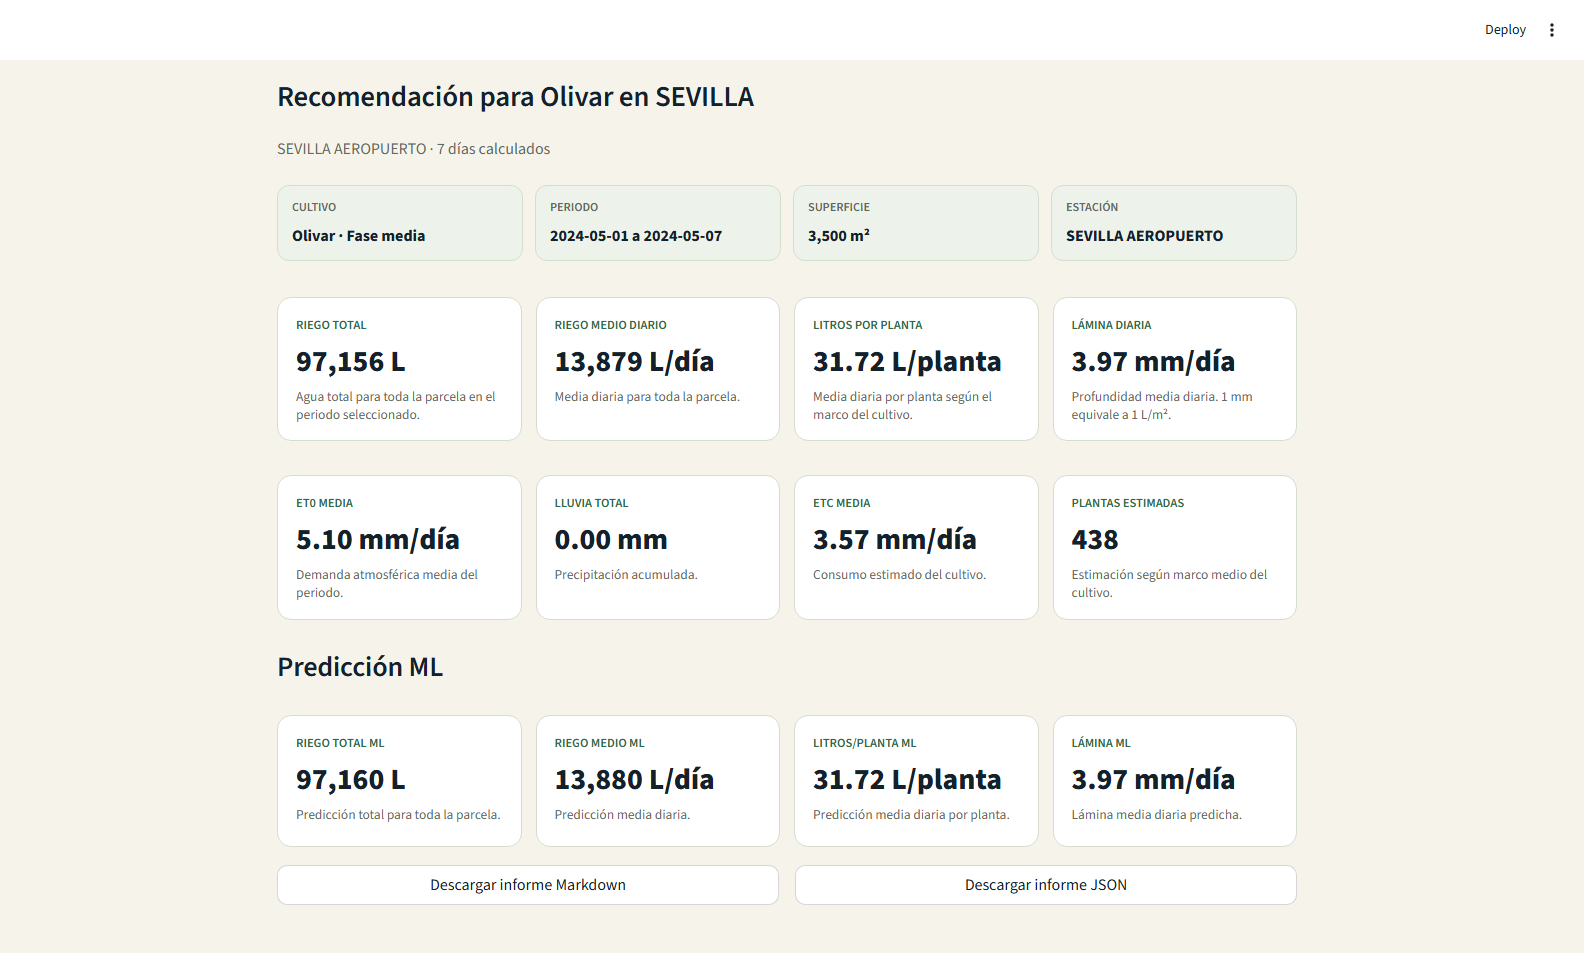
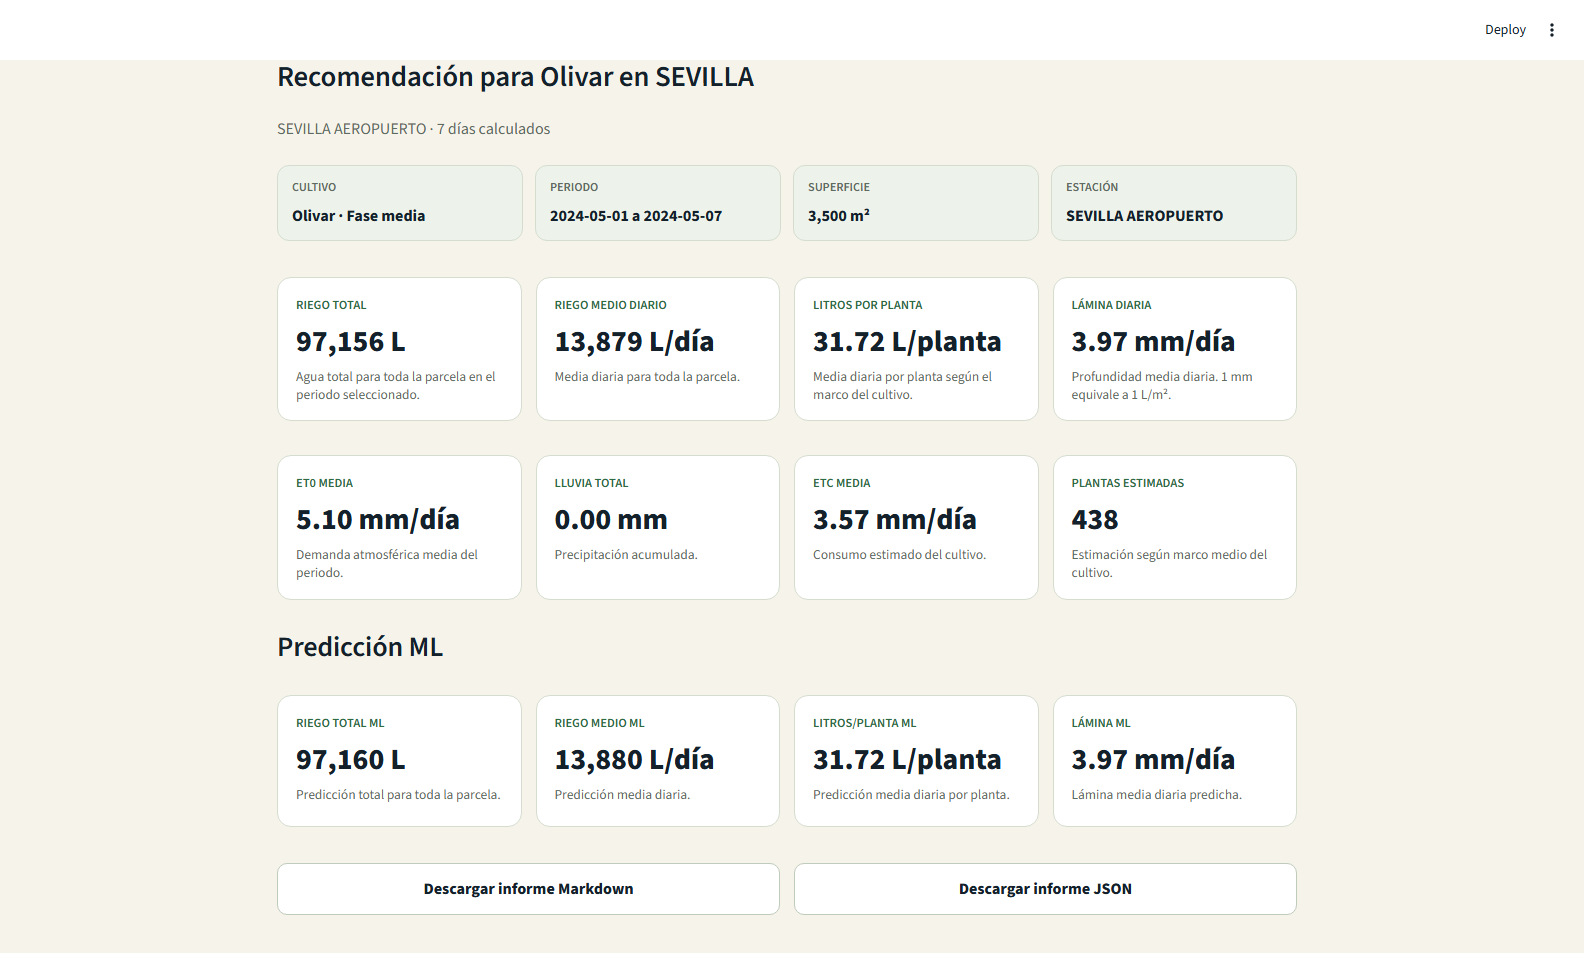
Documentar indicadores y corregir informes descargables

diff --git a/app.py b/app.py
@@ -1,5 +1,6 @@
 from __future__ import annotations
 
+import base64
 import json
 from datetime import date
 from html import escape
@@ -36,6 +37,36 @@ CROP_LABELS = {
     "citricos": "Cítricos",
     "olivar": "Olivar",
 }
+REPORT_INDICATOR_DEFINITIONS = [
+    {
+        "indicador": "Riego total",
+        "significado": "Agua total recomendada para toda la parcela en el periodo seleccionado.",
+    },
+    {
+        "indicador": "Riego medio diario",
+        "significado": "Promedio diario de agua para toda la parcela.",
+    },
+    {
+        "indicador": "Litros por planta",
+        "significado": "Media diaria estimada para cada planta según el marco del cultivo.",
+    },
+    {
+        "indicador": "Lámina diaria",
+        "significado": "Profundidad media diaria de riego; 1 mm equivale a 1 L/m².",
+    },
+    {
+        "indicador": "ET0 media",
+        "significado": "Demanda atmosférica media del periodo.",
+    },
+    {
+        "indicador": "ETc media",
+        "significado": "Demanda hídrica del cultivo tras aplicar el coeficiente Kc.",
+    },
+    {
+        "indicador": "Lluvia total",
+        "significado": "Precipitación acumulada que puede reducir la necesidad de riego.",
+    },
+]
 
 
 def main() -> None:
@@ -423,6 +454,28 @@ def apply_theme() -> None:
             border-radius: 10px;
             font-weight: 800;
         }}
+        .download-grid {{
+            display: grid;
+            grid-template-columns: repeat(2, minmax(0, 1fr));
+            gap: 14px;
+            margin: 18px 0 6px;
+        }}
+        .download-link {{
+            display: block;
+            text-align: center;
+            padding: 12px 16px;
+            border: 1px solid #bfcbbb;
+            border-radius: 10px;
+            background: #ffffff;
+            color: var(--ink) !important;
+            text-decoration: none !important;
+            font-weight: 800;
+        }}
+        .download-link:hover {{
+            border-color: var(--green);
+            color: var(--green) !important;
+            background: #f8fbf5;
+        }}
         .stButton > button[kind="primary"],
         div[data-testid="stFormSubmitButton"] button {{
             background: var(--green);
@@ -444,7 +497,7 @@ def apply_theme() -> None:
             .hero-irrigation {{
                 padding: 26px 22px;
             }}
-            .metric-grid, .context-strip {{
+            .metric-grid, .context-strip, .download-grid {{
                 grid-template-columns: 1fr;
             }}
         }}
@@ -744,27 +797,10 @@ def render_recommendation(recommendation: dict) -> None:
     if "ml_prediction" in recommendation:
         render_ml_prediction(recommendation["ml_prediction"])
 
-    report_markdown = clean_report_markdown(recommendation)
-    report_json = json.dumps(clean_report_dict(recommendation), ensure_ascii=False, indent=2)
-    download_col_a, download_col_b = st.columns(2)
-    with download_col_a:
-        st.download_button(
-            "Descargar informe Markdown",
-            data=report_markdown,
-            file_name="recomendacion_riego.md",
-            mime="text/markdown",
-            on_click="ignore",
-            use_container_width=True,
-        )
-    with download_col_b:
-        st.download_button(
-            "Descargar informe JSON",
-            data=report_json,
-            file_name="recomendacion_riego.json",
-            mime="application/json",
-            on_click="ignore",
-            use_container_width=True,
-        )
+    render_report_download_links(
+        report_markdown=clean_report_markdown(recommendation),
+        report_json=json.dumps(clean_report_dict(recommendation), ensure_ascii=False, indent=2),
+    )
 
 
 def render_ml_prediction(ml_prediction: dict) -> None:
@@ -778,6 +814,25 @@ def render_ml_prediction(ml_prediction: dict) -> None:
             ("Lámina ML", f"{summary['avg_gross_mm_day']:.2f} mm/día", "Lámina media diaria predicha."),
         ]
     )
+
+
+def render_report_download_links(report_markdown: str, report_json: str) -> None:
+    markdown_href = build_download_href(report_markdown, "text/markdown")
+    json_href = build_download_href(report_json, "text/plain")
+    st.markdown(
+        f"""
+        <div class="download-grid">
+            <a class="download-link" href="{markdown_href}" download="recomendacion_riego.md">Descargar informe Markdown</a>
+            <a class="download-link" href="{json_href}" download="recomendacion_riego.json">Descargar informe JSON</a>
+        </div>
+        """,
+        unsafe_allow_html=True,
+    )
+
+
+def build_download_href(content: str, mime_type: str) -> str:
+    encoded = base64.b64encode(content.encode("utf-8")).decode("ascii")
+    return f"data:{mime_type};charset=utf-8;base64,{encoded}"
 
 
 def render_result_header(location: dict, plot: dict, period: dict) -> None:
@@ -834,6 +889,7 @@ def clean_report_dict(recommendation: dict) -> dict:
         "parcela": recommendation["plot"],
         "clima": recommendation["climate"],
         "recomendacion": recommendation["recommendation"],
+        "interpretacion_indicadores": REPORT_INDICATOR_DEFINITIONS,
         "metodo": recommendation["method"],
     }
     if "ml_prediction" in recommendation:
@@ -870,6 +926,12 @@ def clean_report_markdown(recommendation: dict) -> str:
         f"- ET0 media: {climate['et0_avg_mm_day']:.2f} mm/día",
         f"- ETc media del cultivo: {result['avg_etc_mm_day']:.2f} mm/día",
         f"- Lluvia total: {climate['rain_total_mm']:.2f} mm",
+        "",
+        "## Lectura de indicadores",
+        *[
+            f"- {item['indicador']}: {item['significado']}"
+            for item in clean["interpretacion_indicadores"]
+        ],
     ]
     if "prediccion_ml" in clean:
         summary = clean["prediccion_ml"]["resumen"]

diff --git a/docs/memoria_proyecto_intermodular.md b/docs/memoria_proyecto_intermodular.md
@@ -465,7 +465,28 @@ Para una parcela de 3.500 m2 de olivar en fase media, estación Sevilla Aeropuer
 
 Este resultado convierte los cálculos técnicos en una recomendación entendible para el cliente.
 
-### 4.5 Resultado del modelo ML/Keras
+### 4.5 Interpretación de los indicadores de la aplicación
+
+La interfaz muestra únicamente indicadores necesarios para que el usuario pueda decidir cuánta agua debe aplicar. Cada resultado se interpreta de la siguiente forma:
+
+| Indicador de la app | Unidad | Significado | Utilidad para el cliente |
+|---|---:|---|---|
+| Riego total | L | Volumen total recomendado para toda la parcela durante el periodo seleccionado. | Permite saber cuánta agua debe distribuirse en el conjunto de la explotación. |
+| Riego medio diario | L/día | Promedio diario del volumen total de riego de la parcela. | Facilita convertir la recomendación del periodo en una pauta diaria. |
+| Litros por planta | L/planta/día | Media diaria estimada por planta según la superficie y el marco medio del cultivo. | Ayuda a interpretar el resultado a escala de árbol o planta. |
+| Lámina diaria | mm/día | Profundidad media diaria de agua que debe aplicarse sobre el terreno. Un milímetro equivale a 1 L/m2. | Conecta la recomendación agronómica con una unidad habitual de riego. |
+| ET0 media | mm/día | Evapotranspiración de referencia media del periodo; representa la demanda atmosférica de agua. | Indica la presión climática: a mayor ET0, mayor tendencia a necesitar riego. |
+| Lluvia total | mm | Precipitación acumulada durante el periodo. | Reduce la necesidad de riego cuando parte de la lluvia se considera efectiva. |
+| ETc media | mm/día | Evapotranspiración del cultivo; se obtiene multiplicando ET0 por el coeficiente Kc del cultivo y fase. | Representa la demanda hídrica concreta del cultivo seleccionado. |
+| Plantas estimadas | plantas | Número aproximado de plantas calculado con la superficie y el marco medio del cultivo. | Sirve para expresar el resultado también en litros por planta. |
+| Riego total ML | L | Predicción del modelo para el volumen total del periodo. | Permite comparar la salida predictiva con el cálculo agronómico base. |
+| Riego medio ML | L/día | Predicción media diaria del modelo. | Resume la recomendación ML en una pauta diaria. |
+| Litros/planta ML | L/planta/día | Predicción media diaria por planta. | Traduce la salida ML a una unidad comprensible para el agricultor. |
+| Lámina ML | mm/día | Lámina media diaria predicha por el modelo. | Muestra la dosis ML antes de convertirla a litros. |
+
+La diferencia entre ET0 y ETc es clave: ET0 describe la demanda climática general, mientras que ETc ajusta esa demanda al cultivo real mediante Kc. La lámina diaria expresa la dosis en milímetros y el riego medio diario la transforma en litros para la superficie de la parcela.
+
+### 4.6 Resultado del modelo ML/Keras
 
 El modelo Keras se entrenó con un dataset de 168 filas y variables climáticas/agronómicas codificadas. La validación interna obtuvo:
 
@@ -478,7 +499,7 @@ El modelo Keras se entrenó con un dataset de 168 filas y variables climáticas/
 
 El modelo supera el umbral del 85 % si se interpreta la precisión como R2 en un problema de regresión. No obstante, este dato debe presentarse con rigor: el modelo aprende a reproducir el cálculo agronómico sobre el dataset generado, no una verdad de campo medida.
 
-### 4.6 Comparación entre cálculo agronómico y ML
+### 4.7 Comparación entre cálculo agronómico y ML
 
 En el caso de olivar para una parcela de 3.500 m2, la predicción ML fue muy cercana al cálculo base:
 
@@ -491,7 +512,7 @@ En el caso de olivar para una parcela de 3.500 m2, la predicción ML fue muy cer
 
 La diferencia es mínima porque el modelo se ha entrenado con etiquetas derivadas del motor agronómico. Este comportamiento es útil para validar la integración técnica de ML, pero el salto a un servicio real requiere incorporar datos reales de campo.
 
-### 4.7 Validación técnica
+### 4.8 Validación técnica
 
 El proyecto ha sido validado mediante pruebas unitarias. La última ejecución conocida produjo:
 
@@ -511,7 +532,7 @@ Las pruebas cubren:
 - Predicción desde modelo entrenado.
 - Selector nacional de estaciones AEMET.
 
-### 4.8 Capturas del sistema
+### 4.9 Capturas del sistema
 
 Las siguientes capturas corresponden a una ejecución real del prototipo. El escenario utilizado para documentar la prueba es: estación AEMET Sevilla Aeropuerto, periodo del 01/05/2024 al 07/05/2024, cultivo olivar, fase media, superficie de 3.500 m2 y modelo ML activado.
 
@@ -521,8 +542,8 @@ Las siguientes capturas corresponden a una ejecución real del prototipo. El esc
 | Figura 2 | Formulario principal de configuración de estación, fechas, cultivo y superficie. |
 | Figura 3 | Activación del modelo predictivo ML entrenado. |
 | Figura 4 | Resultados principales del cálculo agronómico de riego. |
-| Figura 5 | Predicción ML y comparación con el cálculo diario. |
-| Figura 6 | Detalle diario y exportación de resultados. |
+| Figura 5 | Predicción ML resumida y comparable con la recomendación base. |
+| Figura 6 | Descarga de informes en formato Markdown y JSON. |
 | Figura 7 | Ejecución de pruebas unitarias. |
 | Figura 8 | Evidencia de control de versiones y repositorio GitHub. |
 
@@ -546,9 +567,9 @@ Las siguientes capturas corresponden a una ejecución real del prototipo. El esc
 
 ![Predicción ML](capturas/figura_04_prediccion_ml.png)
 
-**Figura 6. Detalle diario y exportación.**
+**Figura 6. Descarga de informes.**
 
-![Detalle diario](capturas/figura_05_detalle_diario.png)
+![Descarga de informes](capturas/figura_05_descarga_informes.png)
 
 **Figura 7. Pruebas unitarias superadas.**
 